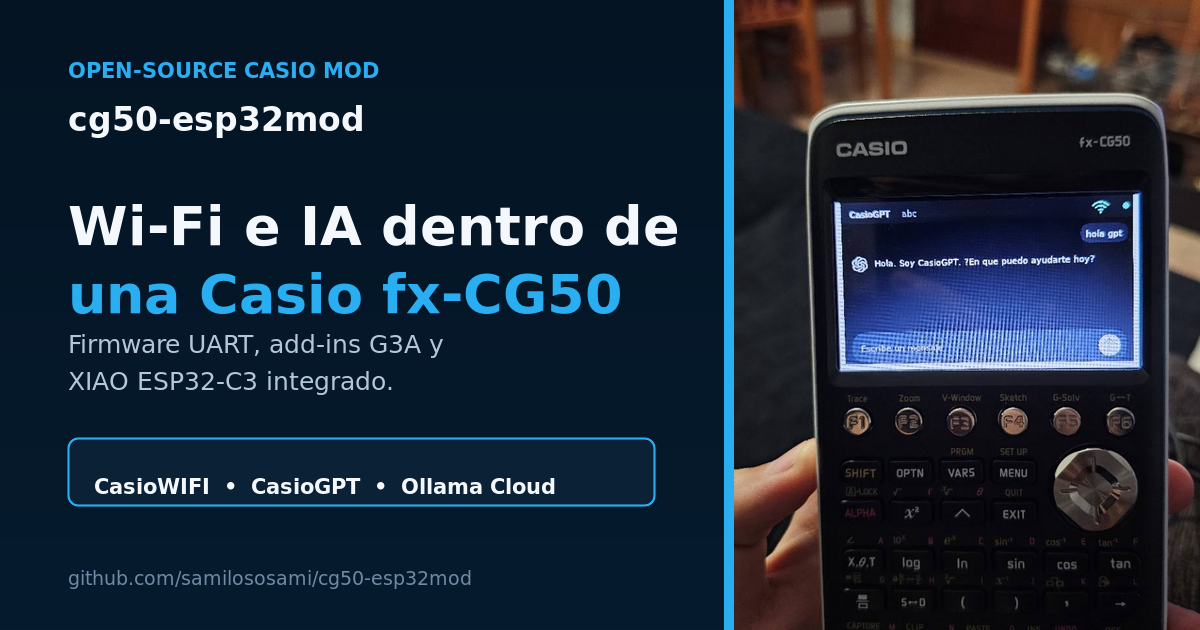
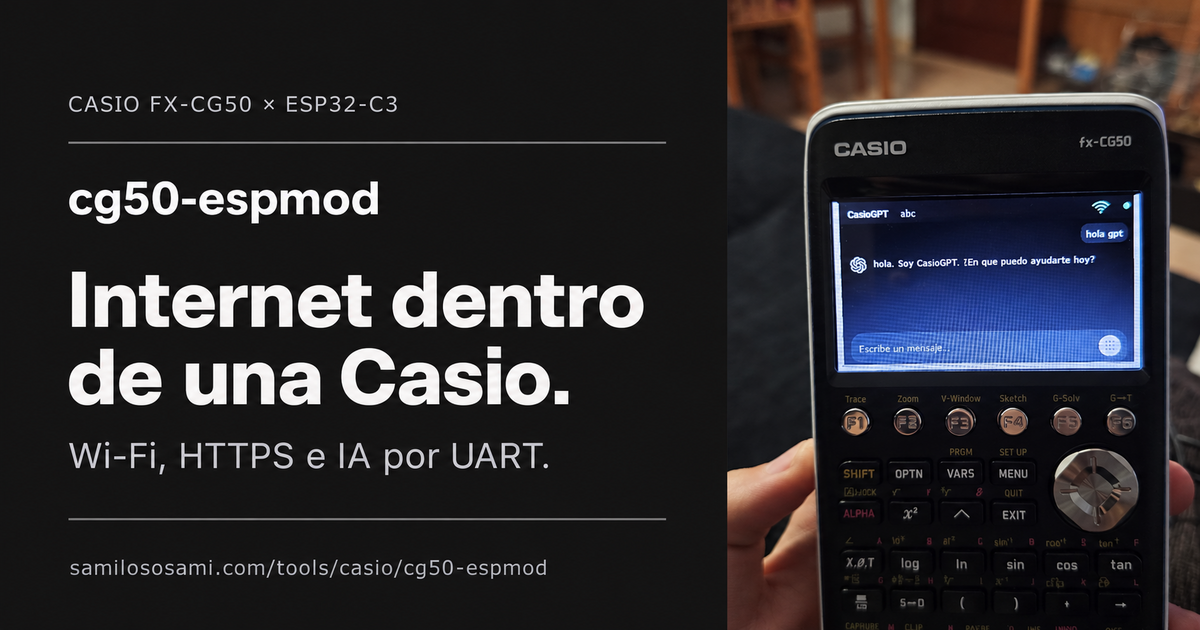
Rename project to cg50-espmod

diff --git a/docs/index.html b/docs/index.html
@@ -9,45 +9,45 @@
   <meta name="author" content="Sami Gonzalez Kamel">
   <meta name="robots" content="index,follow,max-image-preview:large,max-snippet:-1,max-video-preview:-1">
   <meta name="theme-color" content="#041423">
-  <link rel="canonical" href="https://samilososami.github.io/cg50-esp32mod/">
+  <link rel="canonical" href="https://samilososami.com/tools/casio/cg50-espmod/">
   <link rel="icon" href="favicon.svg" type="image/svg+xml">
   <link rel="manifest" href="site.webmanifest">
   <link rel="preload" as="image" href="images/ui/casiogpt-on-calculator.jpg" fetchpriority="high">
 
   <meta property="og:type" content="website">
-  <meta property="og:site_name" content="cg50-esp32mod">
+  <meta property="og:site_name" content="cg50-espmod">
   <meta property="og:locale" content="es_ES">
   <meta property="og:title" content="Wi-Fi e IA dentro de una Casio fx-CG50">
   <meta property="og:description" content="CasioWIFI, CasioGPT y firmware abierto para integrar una XIAO ESP32-C3 en una Casio fx-CG50.">
-  <meta property="og:url" content="https://samilososami.github.io/cg50-esp32mod/">
-  <meta property="og:image" content="https://samilososami.github.io/cg50-esp32mod/social-card.png">
+  <meta property="og:url" content="https://samilososami.com/tools/casio/cg50-espmod/">
+  <meta property="og:image" content="https://samilososami.com/tools/casio/cg50-espmod/assets/social-card.png">
   <meta property="og:image:type" content="image/png">
   <meta property="og:image:width" content="1200">
   <meta property="og:image:height" content="630">
-  <meta property="og:image:alt" content="cg50-esp32mod: Wi-Fi e IA dentro de una Casio fx-CG50">
+  <meta property="og:image:alt" content="cg50-espmod: Wi-Fi e IA dentro de una Casio fx-CG50">
 
   <meta name="twitter:card" content="summary_large_image">
   <meta name="twitter:title" content="Casio fx-CG50 ESP32 Wi-Fi &amp; AI Mod">
   <meta name="twitter:description" content="Add-ins G3A, firmware UART y montaje completo de CasioWIFI + CasioGPT.">
-  <meta name="twitter:image" content="https://samilososami.github.io/cg50-esp32mod/social-card.png">
+  <meta name="twitter:image" content="https://samilososami.com/tools/casio/cg50-espmod/assets/social-card.png">
 
   <script type="application/ld+json">
   {
     "@context": "https://schema.org",
     "@type": "SoftwareSourceCode",
-    "name": "cg50-esp32mod",
+    "name": "cg50-espmod",
     "alternateName": ["CasioWIFI", "CasioGPT"],
     "description": "Open-source Wi-Fi and cloud AI mod for the Casio fx-CG50 using a Seeed Studio XIAO ESP32-C3 over UART.",
-    "url": "https://samilososami.github.io/cg50-esp32mod/",
-    "codeRepository": "https://github.com/samilososami/cg50-esp32mod",
-    "downloadUrl": "https://github.com/samilososami/cg50-esp32mod/releases/latest",
+    "url": "https://samilososami.com/tools/casio/cg50-espmod/",
+    "codeRepository": "https://github.com/samilososami/cg50-espmod",
+    "downloadUrl": "https://github.com/samilososami/cg50-espmod/releases/latest",
     "license": "https://opensource.org/licenses/MIT",
     "version": "0.1.0",
     "datePublished": "2026-10-07",
     "dateModified": "2026-10-07",
     "programmingLanguage": ["C", "C++", "Python", "Shell"],
     "runtimePlatform": ["Casio fx-CG50", "XIAO ESP32-C3"],
-    "image": "https://samilososami.github.io/cg50-esp32mod/social-card.png",
+    "image": "https://samilososami.com/tools/casio/cg50-espmod/assets/social-card.png",
     "keywords": "Casio fx-CG50, ESP32, Casio Prizm, G3A, UART, Wi-Fi, Ollama Cloud, calculator mod",
     "author": {
       "@type": "Person",
@@ -61,14 +61,14 @@
 <body>
   <a class="skip-link" href="#contenido">Saltar al contenido</a>
   <header class="site-header">
-    <a class="brand" href="#inicio" aria-label="cg50-esp32mod, inicio">cg50-<span>esp32</span>mod</a>
+    <a class="brand" href="#inicio" aria-label="cg50-espmod, inicio">cg50-<span>esp</span>mod</a>
     <nav aria-label="Navegación principal">
       <a href="#proyecto">Proyecto</a>
       <a href="#apps">Apps</a>
       <a href="#hardware">Hardware</a>
       <a href="#instalacion">Instalación</a>
     </nav>
-    <a class="github-link" href="https://github.com/samilososami/cg50-esp32mod" aria-label="Abrir cg50-esp32mod en GitHub">
+    <a class="github-link" href="https://github.com/samilososami/cg50-espmod" aria-label="Abrir cg50-espmod en GitHub">
       <svg viewBox="0 0 24 24" aria-hidden="true"><path d="M12 2a10 10 0 0 0-3.16 19.49c.5.09.68-.22.68-.48v-1.86c-2.78.61-3.37-1.18-3.37-1.18-.45-1.16-1.11-1.47-1.11-1.47-.91-.62.07-.61.07-.61 1 .08 1.53 1.04 1.53 1.04.9 1.53 2.35 1.09 2.92.83.09-.65.35-1.09.64-1.34-2.22-.25-4.56-1.11-4.56-4.94 0-1.09.39-1.98 1.03-2.68-.1-.25-.45-1.27.1-2.64 0 0 .84-.27 2.75 1.02A9.6 9.6 0 0 1 12 6.84a9.6 9.6 0 0 1 2.5.34c1.91-1.29 2.75-1.02 2.75-1.02.55 1.37.2 2.39.1 2.64.64.7 1.03 1.59 1.03 2.68 0 3.84-2.34 4.68-4.57 4.93.36.31.68.92.68 1.86v2.75c0 .27.18.58.69.48A10 10 0 0 0 12 2Z"/></svg>
     </a>
   </header>
@@ -81,11 +81,11 @@
         <p class="hero-summary">Una modificación open source que conecta la calculadora por UART con una ESP32 integrada y añade gestión Wi-Fi, HTTPS y modelos de IA en la nube.</p>
         <p class="english-summary" lang="en">Open-source Casio fx-CG50 ESP32 mod with native G3A add-ins, UART firmware and Ollama Cloud streaming.</p>
         <div class="actions">
-          <a class="button primary" href="https://github.com/samilososami/cg50-esp32mod">
+          <a class="button primary" href="https://github.com/samilososami/cg50-espmod">
             <svg viewBox="0 0 24 24" aria-hidden="true"><path d="M12 2a10 10 0 0 0-3.16 19.49c.5.09.68-.22.68-.48v-1.86c-2.78.61-3.37-1.18-3.37-1.18-.45-1.16-1.11-1.47-1.11-1.47-.91-.62.07-.61.07-.61 1 .08 1.53 1.04 1.53 1.04.9 1.53 2.35 1.09 2.92.83.09-.65.35-1.09.64-1.34-2.22-.25-4.56-1.11-4.56-4.94 0-1.09.39-1.98 1.03-2.68-.1-.25-.45-1.27.1-2.64 0 0 .84-.27 2.75 1.02A9.6 9.6 0 0 1 12 6.84a9.6 9.6 0 0 1 2.5.34c1.91-1.29 2.75-1.02 2.75-1.02.55 1.37.2 2.39.1 2.64.64.7 1.03 1.59 1.03 2.68 0 3.84-2.34 4.68-4.57 4.93.36.31.68.92.68 1.86v2.75c0 .27.18.58.69.48A10 10 0 0 0 12 2Z"/></svg>
             Ver en GitHub
           </a>
-          <a class="button secondary" href="https://github.com/samilososami/cg50-esp32mod/releases/tag/v0.1.0">
+          <a class="button secondary" href="https://github.com/samilososami/cg50-espmod/releases/tag/v0.1.0">
             <svg viewBox="0 0 24 24" aria-hidden="true"><path d="M12 3v12m0 0 5-5m-5 5-5-5M5 20h14"/></svg>
             Descargar v0.1.0
           </a>
@@ -128,11 +128,11 @@
       <div class="apps-grid">
         <article class="app-panel">
           <svg class="app-icon" viewBox="0 0 64 64" aria-hidden="true"><path d="M8 24c14-13 34-13 48 0M16 34c10-9 22-9 32 0M25 44c5-4 9-4 14 0"/><circle cx="32" cy="53" r="3"/></svg>
-          <div><h3>CasioWIFI</h3><p>Escanea redes, conecta a puntos abiertos o protegidos y conserva hasta ocho credenciales confirmadas en NVS.</p><a href="https://github.com/samilososami/cg50-esp32mod#casiowifi">Ver CasioWIFI <span aria-hidden="true">→</span></a></div>
+          <div><h3>CasioWIFI</h3><p>Escanea redes, conecta a puntos abiertos o protegidos y conserva hasta ocho credenciales confirmadas en NVS.</p><a href="https://samilososami.com/tools/casio/cg50-espmod/casiowifi/">Ver CasioWIFI <span aria-hidden="true">→</span></a></div>
         </article>
         <article class="app-panel">
           <svg class="app-icon" viewBox="0 0 64 64" aria-hidden="true"><path d="M10 12h44v32H30L18 54V44h-8Z"/><path d="M20 23h24M20 32h17"/></svg>
-          <div><h3>CasioGPT</h3><p>Chat con verificación de Internet, contexto breve, cancelación y respuestas incrementales desde Ollama Cloud.</p><a href="https://github.com/samilososami/cg50-esp32mod#casiogpt">Ver CasioGPT <span aria-hidden="true">→</span></a></div>
+          <div><h3>CasioGPT</h3><p>Chat con verificación de Internet, contexto breve, cancelación y respuestas incrementales desde Ollama Cloud.</p><a href="https://samilososami.com/tools/casio/cg50-espmod/casiogpt/">Ver CasioGPT <span aria-hidden="true">→</span></a></div>
         </article>
       </div>
     </section>
@@ -148,7 +148,7 @@
         <figure><img src="images/hardware/04-xiao-installed-closeup.jpg" width="1280" height="960" loading="lazy" alt="Primer plano de la XIAO ESP32-C3 instalada en la placa de la CG50"><figcaption>XIAO instalada</figcaption></figure>
         <figure><img src="images/hardware/05-final-internal-layout.jpg" width="721" height="1280" loading="lazy" alt="Distribución interna final de la ESP32 en la calculadora"><figcaption>Integración final</figcaption></figure>
       </div>
-      <a class="text-link" href="https://github.com/samilososami/cg50-esp32mod/blob/main/hardware/WIRING.md">Abrir la guía completa de cableado <span aria-hidden="true">→</span></a>
+      <a class="text-link" href="https://github.com/samilososami/cg50-espmod/blob/main/hardware/WIRING.md">Abrir la guía completa de cableado <span aria-hidden="true">→</span></a>
     </section>
 
     <section class="section install" id="instalacion">
@@ -163,18 +163,18 @@
       </ol>
       <div class="release-cta">
         <p><strong>v0.1.0</strong> · Add-ins, firmware fusionado y hashes SHA-256.</p>
-        <a class="button primary" href="https://github.com/samilososami/cg50-esp32mod/releases/latest">Descargar la última release</a>
+        <a class="button primary" href="https://github.com/samilososami/cg50-espmod/releases/latest">Descargar la última release</a>
       </div>
     </section>
   </main>
 
   <footer>
-    <a class="brand" href="#inicio">cg50-<span>esp32</span>mod</a>
+    <a class="brand" href="#inicio">cg50-<span>esp</span>mod</a>
     <p>Hardware libre. Ideas sin límites.</p>
     <nav aria-label="Navegación de pie">
-      <a href="https://github.com/samilososami/cg50-esp32mod">GitHub</a>
-      <a href="https://github.com/samilososami/cg50-esp32mod/releases">Releases</a>
-      <a href="https://github.com/samilososami/cg50-esp32mod/blob/main/LICENSE">MIT</a>
+      <a href="https://github.com/samilososami/cg50-espmod">GitHub</a>
+      <a href="https://github.com/samilososami/cg50-espmod/releases">Releases</a>
+      <a href="https://github.com/samilososami/cg50-espmod/blob/main/LICENSE">MIT</a>
     </nav>
   </footer>
 </body>

diff --git a/README.md b/README.md
@@ -1,6 +1,6 @@
 <div align="center">
 
-# cg50-esp32mod — Casio fx-CG50 Wi-Fi + AI mod
+# cg50-espmod — Casio fx-CG50 Wi-Fi + AI mod
 
 **Mod open source que añade Wi-Fi y asistencia mediante IA a una Casio fx-CG50 usando una XIAO ESP32-C3 integrada por UART.**
 
@@ -9,7 +9,7 @@
 [![Hardware](https://img.shields.io/badge/hardware-XIAO%20ESP32--C3-00bfa5)](hardware/WIRING.md)
 [![Calculator](https://img.shields.io/badge/calculator-Casio%20fx--CG50-2675ff)](#compatibilidad)
 [![License](https://img.shields.io/badge/license-MIT-white)](LICENSE)
-[![Website](https://img.shields.io/badge/website-GitHub%20Pages-26A7F5)](https://samilososami.github.io/cg50-esp32mod/)
+[![Website](https://img.shields.io/badge/website-samilososami.com-222222)](https://samilososami.com/tools/casio/cg50-espmod/)
 
 <img src="docs/images/ui/casiogpt-on-calculator.jpg" alt="CasioGPT funcionando físicamente en una Casio fx-CG50 modificada" width="430">
 
@@ -37,10 +37,10 @@ El repositorio contiene todo el software de esta modificación:
 |---|---|---|
 | **CasioWIFI** | `CASIOWIFI.g3a` | Escanea redes, conecta a redes abiertas o protegidas y muestra el estado de la ESP32 y de Wi-Fi. |
 | **CasioGPT** | `CASIOGPT.g3a` | Chat oscuro tipo mensajería, respuesta incremental, historial corto y cancelación con F6. |
-| **Firmware común** | `cg50-esp32mod-esp32-merged.bin` | Puente UART, Wi-Fi/NVS, TLS y streaming desde Ollama Cloud. Sirve a las dos apps. |
+| **Firmware común** | `cg50-espmod-esp32-merged.bin` | Puente UART, Wi-Fi/NVS, TLS y streaming desde Ollama Cloud. Sirve a las dos apps. |
 
 Los binarios revisados están en [`dist/`](dist/) y también se publican en
-[Releases](https://github.com/samilososami/cg50-esp32mod/releases).
+[Releases](https://github.com/samilososami/cg50-espmod/releases).
 
 ## Arquitectura
 

diff --git a/docs/releases/v0.1.0.md b/docs/releases/v0.1.0.md
@@ -4,8 +4,8 @@ Incluye:
 
 - `CASIOWIFI.g3a`: escaneo, conexión y persistencia de redes Wi-Fi.
 - `CASIOGPT.g3a`: chat con streaming mediante Ollama Cloud.
-- `cg50-esp32mod-esp32-app.bin`: imagen de aplicación del firmware.
-- `cg50-esp32mod-esp32-merged.bin`: imagen completa para flashear desde `0x0`.
+- `cg50-espmod-esp32-app.bin`: imagen de aplicación del firmware.
+- `cg50-espmod-esp32-merged.bin`: imagen completa para flashear desde `0x0`.
 - `checksums.txt`: SHA-256 de todos los artefactos.
 
 El firmware es común a ambos add-ins, usa hostname `casio-cg50` y protocolo

diff --git a/docs/BUILDING.md b/docs/BUILDING.md
@@ -33,8 +33,8 @@ Los resultados revisables quedan en `dist/`:
 
 - `CASIOWIFI.g3a`
 - `CASIOGPT.g3a`
-- `cg50-esp32mod-esp32-app.bin`
-- `cg50-esp32mod-esp32-merged.bin`
+- `cg50-espmod-esp32-app.bin`
+- `cg50-espmod-esp32-merged.bin`
 - `checksums.txt`
 
 ## Pruebas de host
